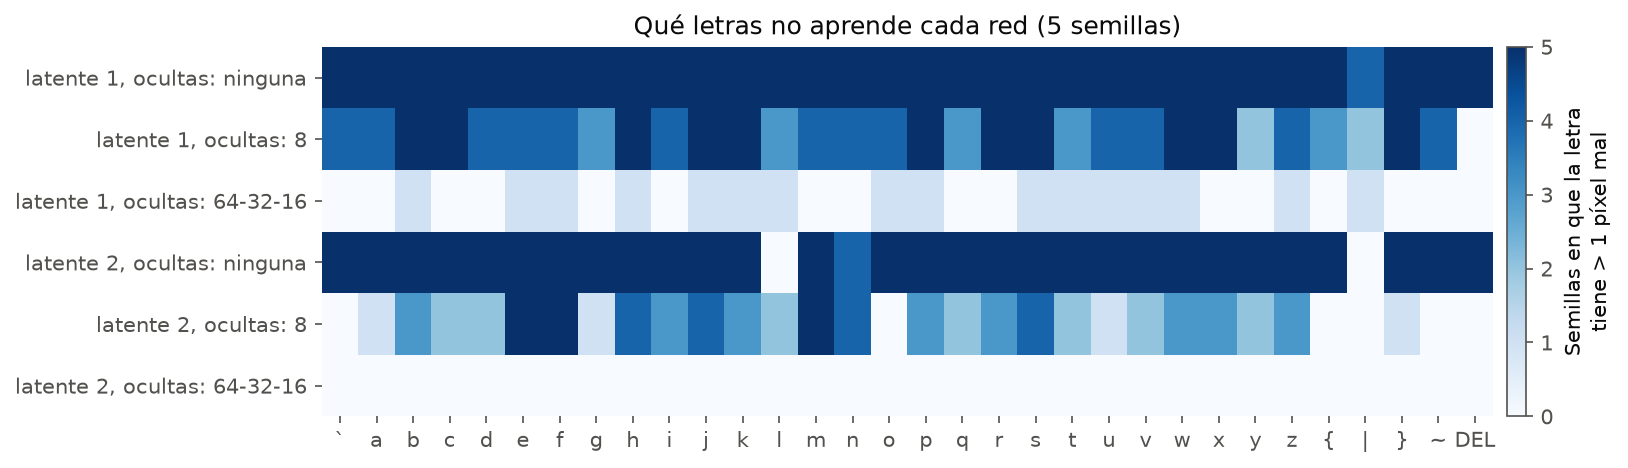
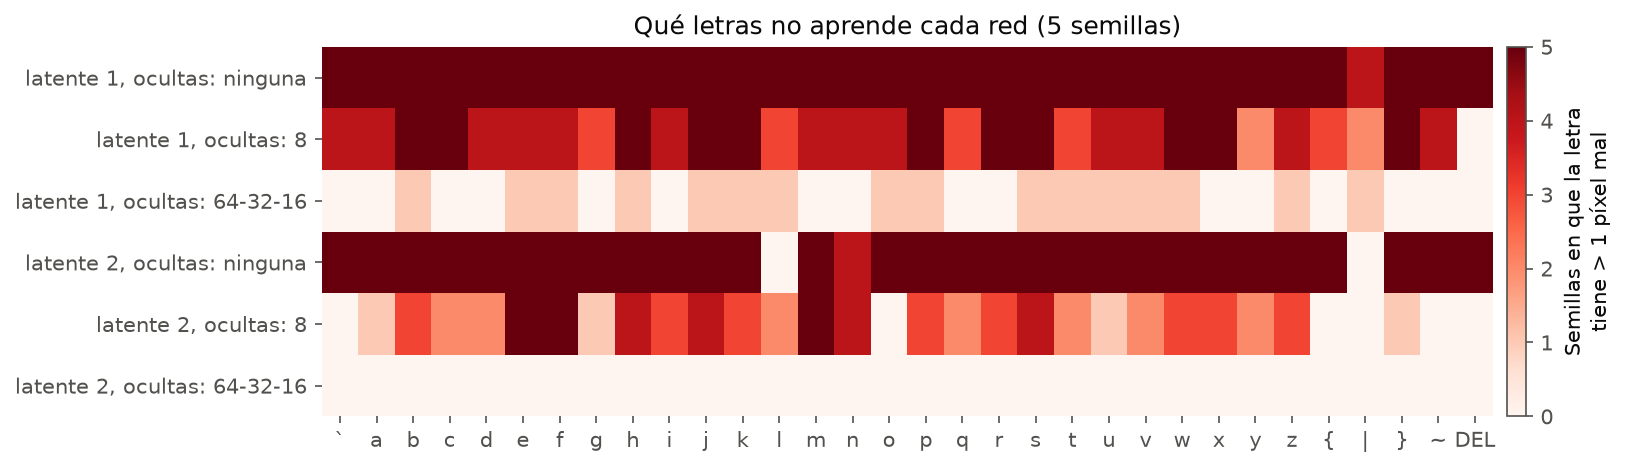
docs(tp5): mapas de error en rojo y corrige el título de denoising con otros ruidos

diff --git a/TP5/presentation/index.html b/TP5/presentation/index.html
@@ -203,10 +203,10 @@
 </section>
 
 <section class="figure has-take">
-  <h2>Limpia bien solo el ruido con el que se entrenó</h2>
+  <h2>También limpia ruidos con los que no se entrenó</h2>
   <figure><img src="assets/reports__ej1_pruebas__denoising_tipos_de_ruido.png" alt="Error de salida entrenando con un ruido y probando con otro"></figure>
-  <p class="take">Entrenada apagando píxeles, no sabe qué hacer con los que se prenden: <span class="warm">4,5 a 8,5</span> píxeles mal.</p>
-  <aside class="notes">Latente 8, ocultas 32-16, 3 semillas. Invertir es el ruido más general: entrenada así, limpia los cuatro tipos con menos de medio píxel mal. Apagar solo saca píxeles: la red aprende que todo píxel encendido es real, y cuando el ruido prende píxeles los deja.</aside>
+  <p class="take">De 2,3 a 3,7 píxeles mal en la entrada a <em>menos de 1</em>. La excepción: entrenada apagando píxeles, deja <span class="warm">4,5 a 8,5</span>.</p>
+  <aside class="notes">Latente 8, ocultas 32-16, 3 semillas. Entrenada con invertir, sal y pimienta o gaussiano, limpia los cuatro tipos de ruido, también los que nunca vio, con menos de un píxel mal; la entrada tiene entre 2,3 y 3,7. Invertir es el más general: menos de medio píxel mal en los cuatro. Apagar solo saca píxeles: la red aprende que todo píxel encendido es real, y cuando el ruido prende píxeles los deja.</aside>
 </section>
 
 <!-- ===================================================================== Ejercicio 2 -->

diff --git a/TP5/scripts/ej1_figuras.py b/TP5/scripts/ej1_figuras.py
@@ -201,7 +201,7 @@ def small_failures(report: list[str]) -> None:
         )
 
     figure, axis = plt.subplots(figsize=(12, 3.2))
-    image = axis.imshow(failures, cmap="Blues", vmin=0, vmax=len(by_config[configs[0]]), aspect="auto")
+    image = axis.imshow(failures, cmap="Reds", vmin=0, vmax=len(by_config[configs[0]]), aspect="auto")
     axis.set_xticks(range(len(labels)), labels)
     axis.set_yticks(
         range(len(configs)), [f"latente {k[0]}, ocultas: {hidden_name(list(k[1]))}" for k in configs]
@@ -363,7 +363,7 @@ def noise_types(report: list[str]) -> None:
     noisy = np.array([np.mean([i for i, _ in cells[(kinds[0], e)]]) for e in kinds])
 
     figure, axis = plt.subplots(figsize=(6.4, 4.4))
-    image = axis.imshow(output, cmap="Blues", vmin=0, aspect="auto")
+    image = axis.imshow(output, cmap="Reds", vmin=0, aspect="auto")
     for i in range(len(kinds)):
         for j in range(len(kinds)):
             axis.text(j, i, f"{output[i, j]:.2f}\n± {deviation[i, j]:.2f}", ha="center", va="center",
